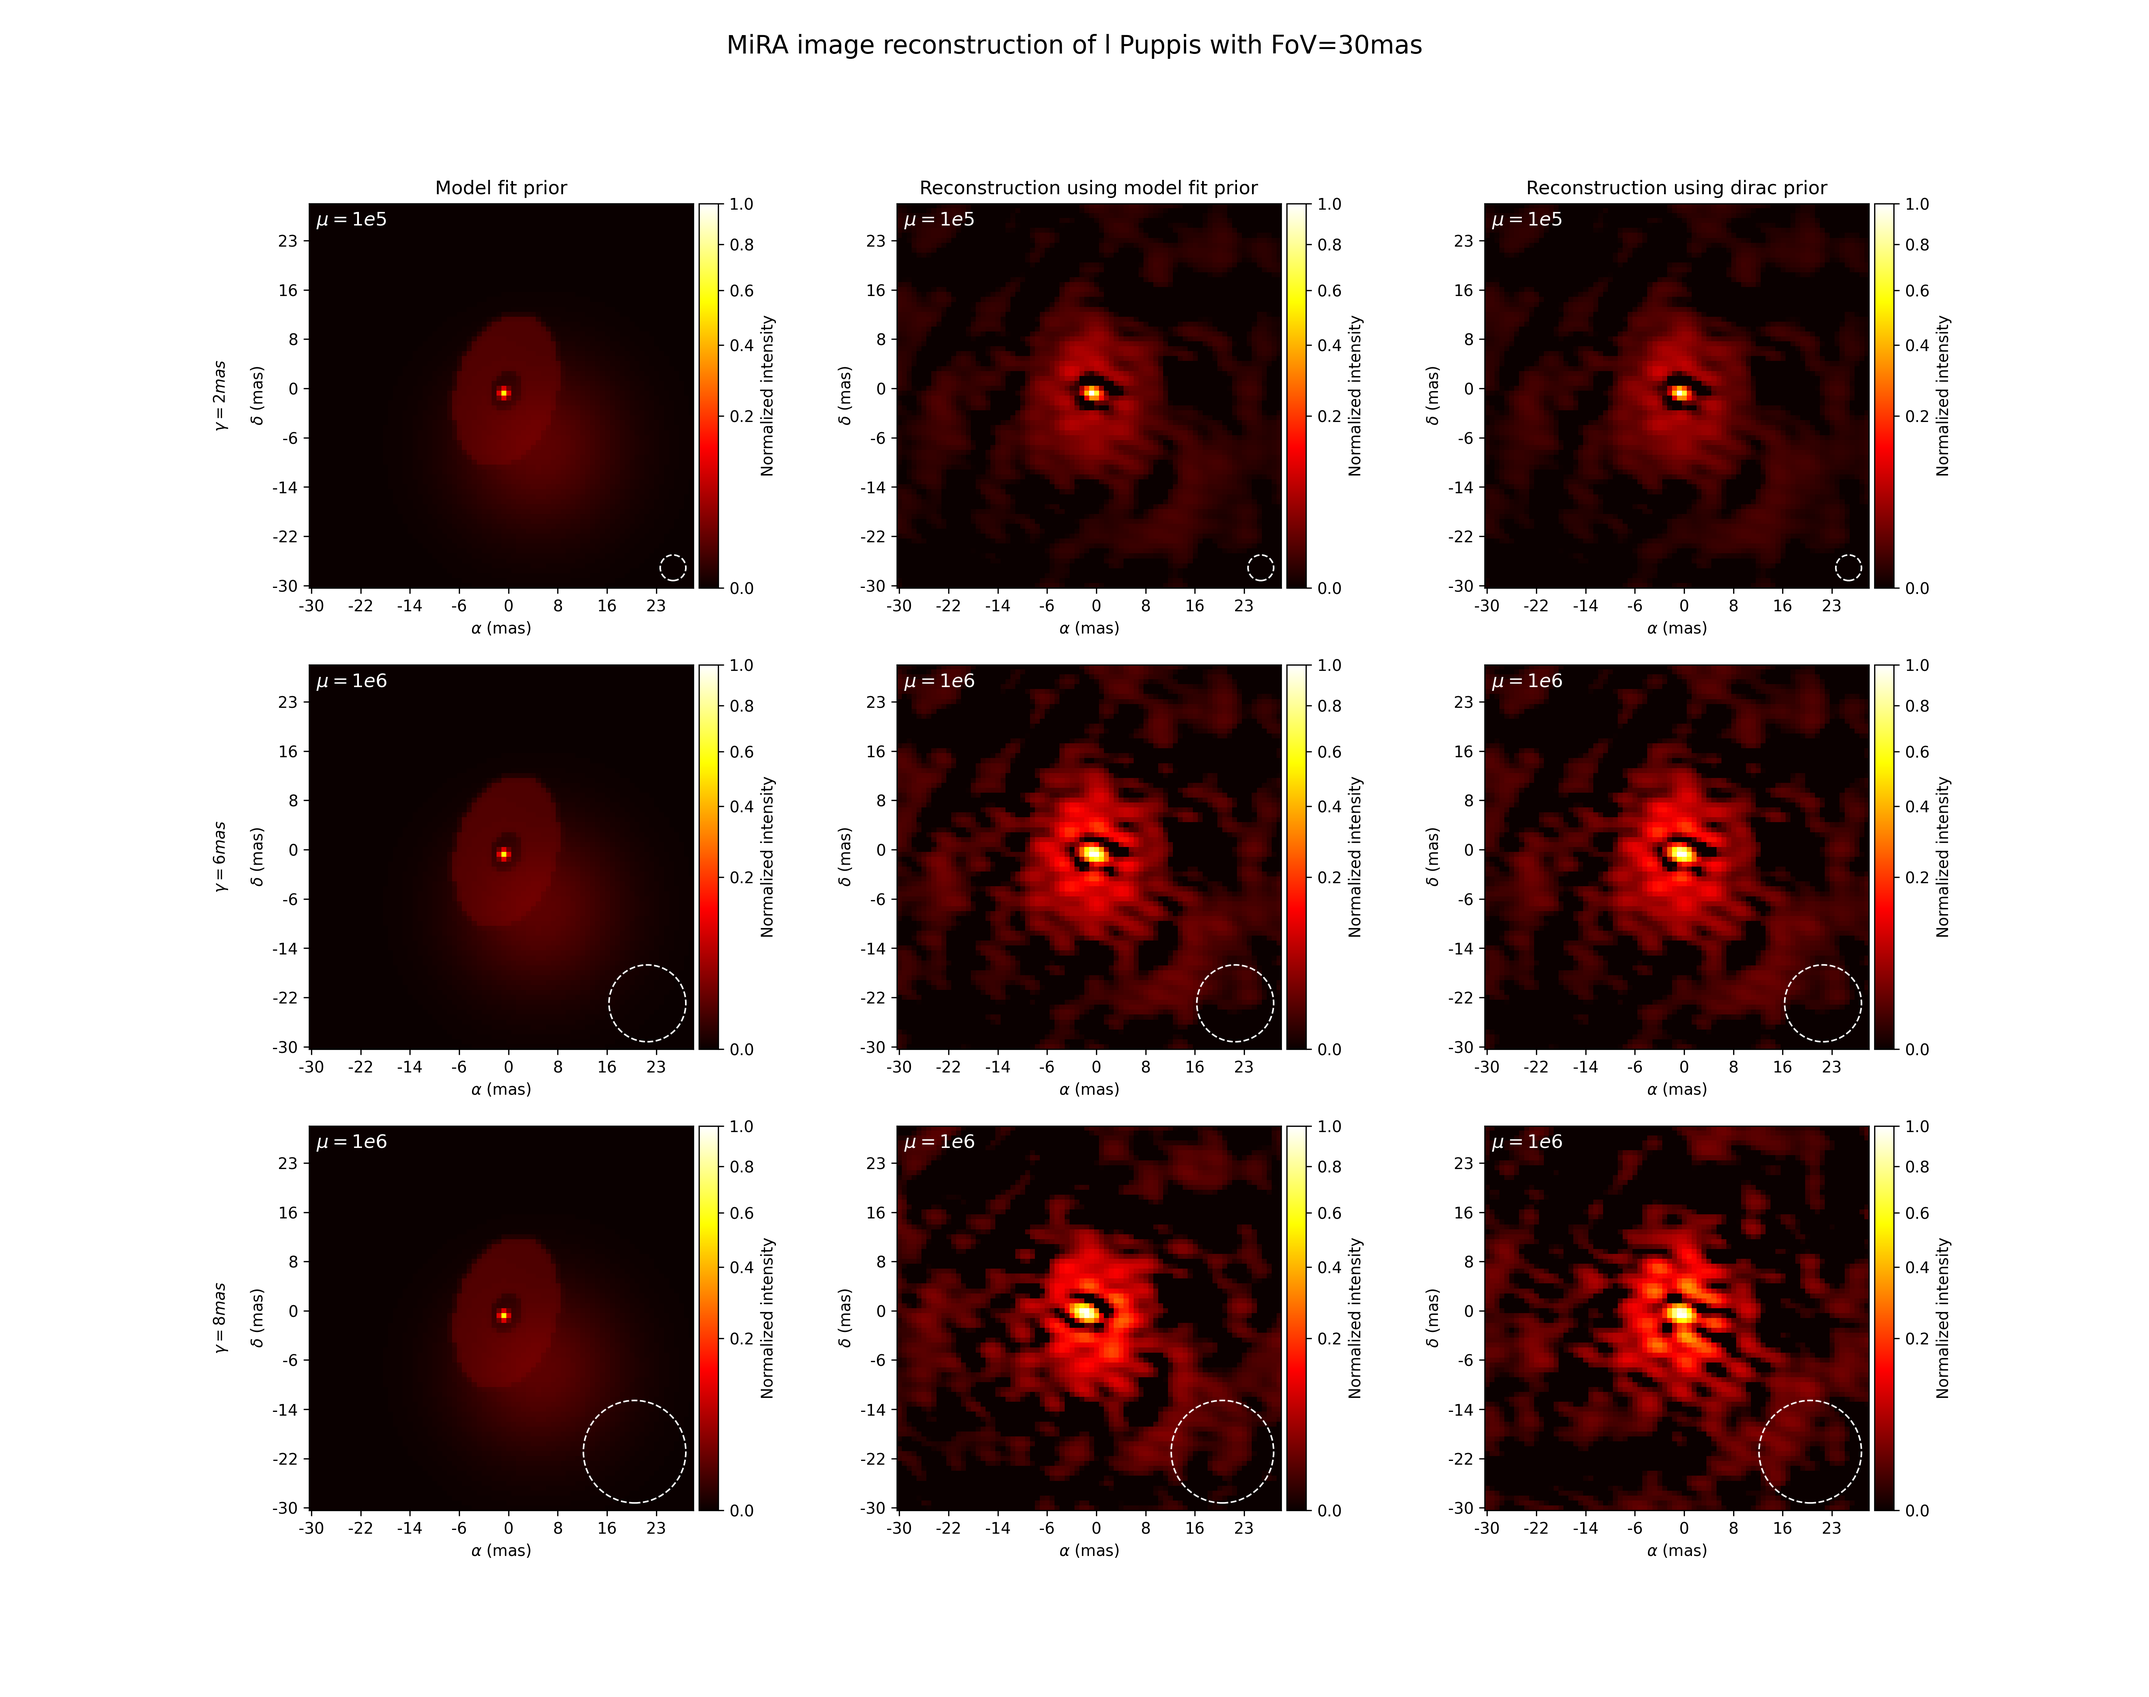
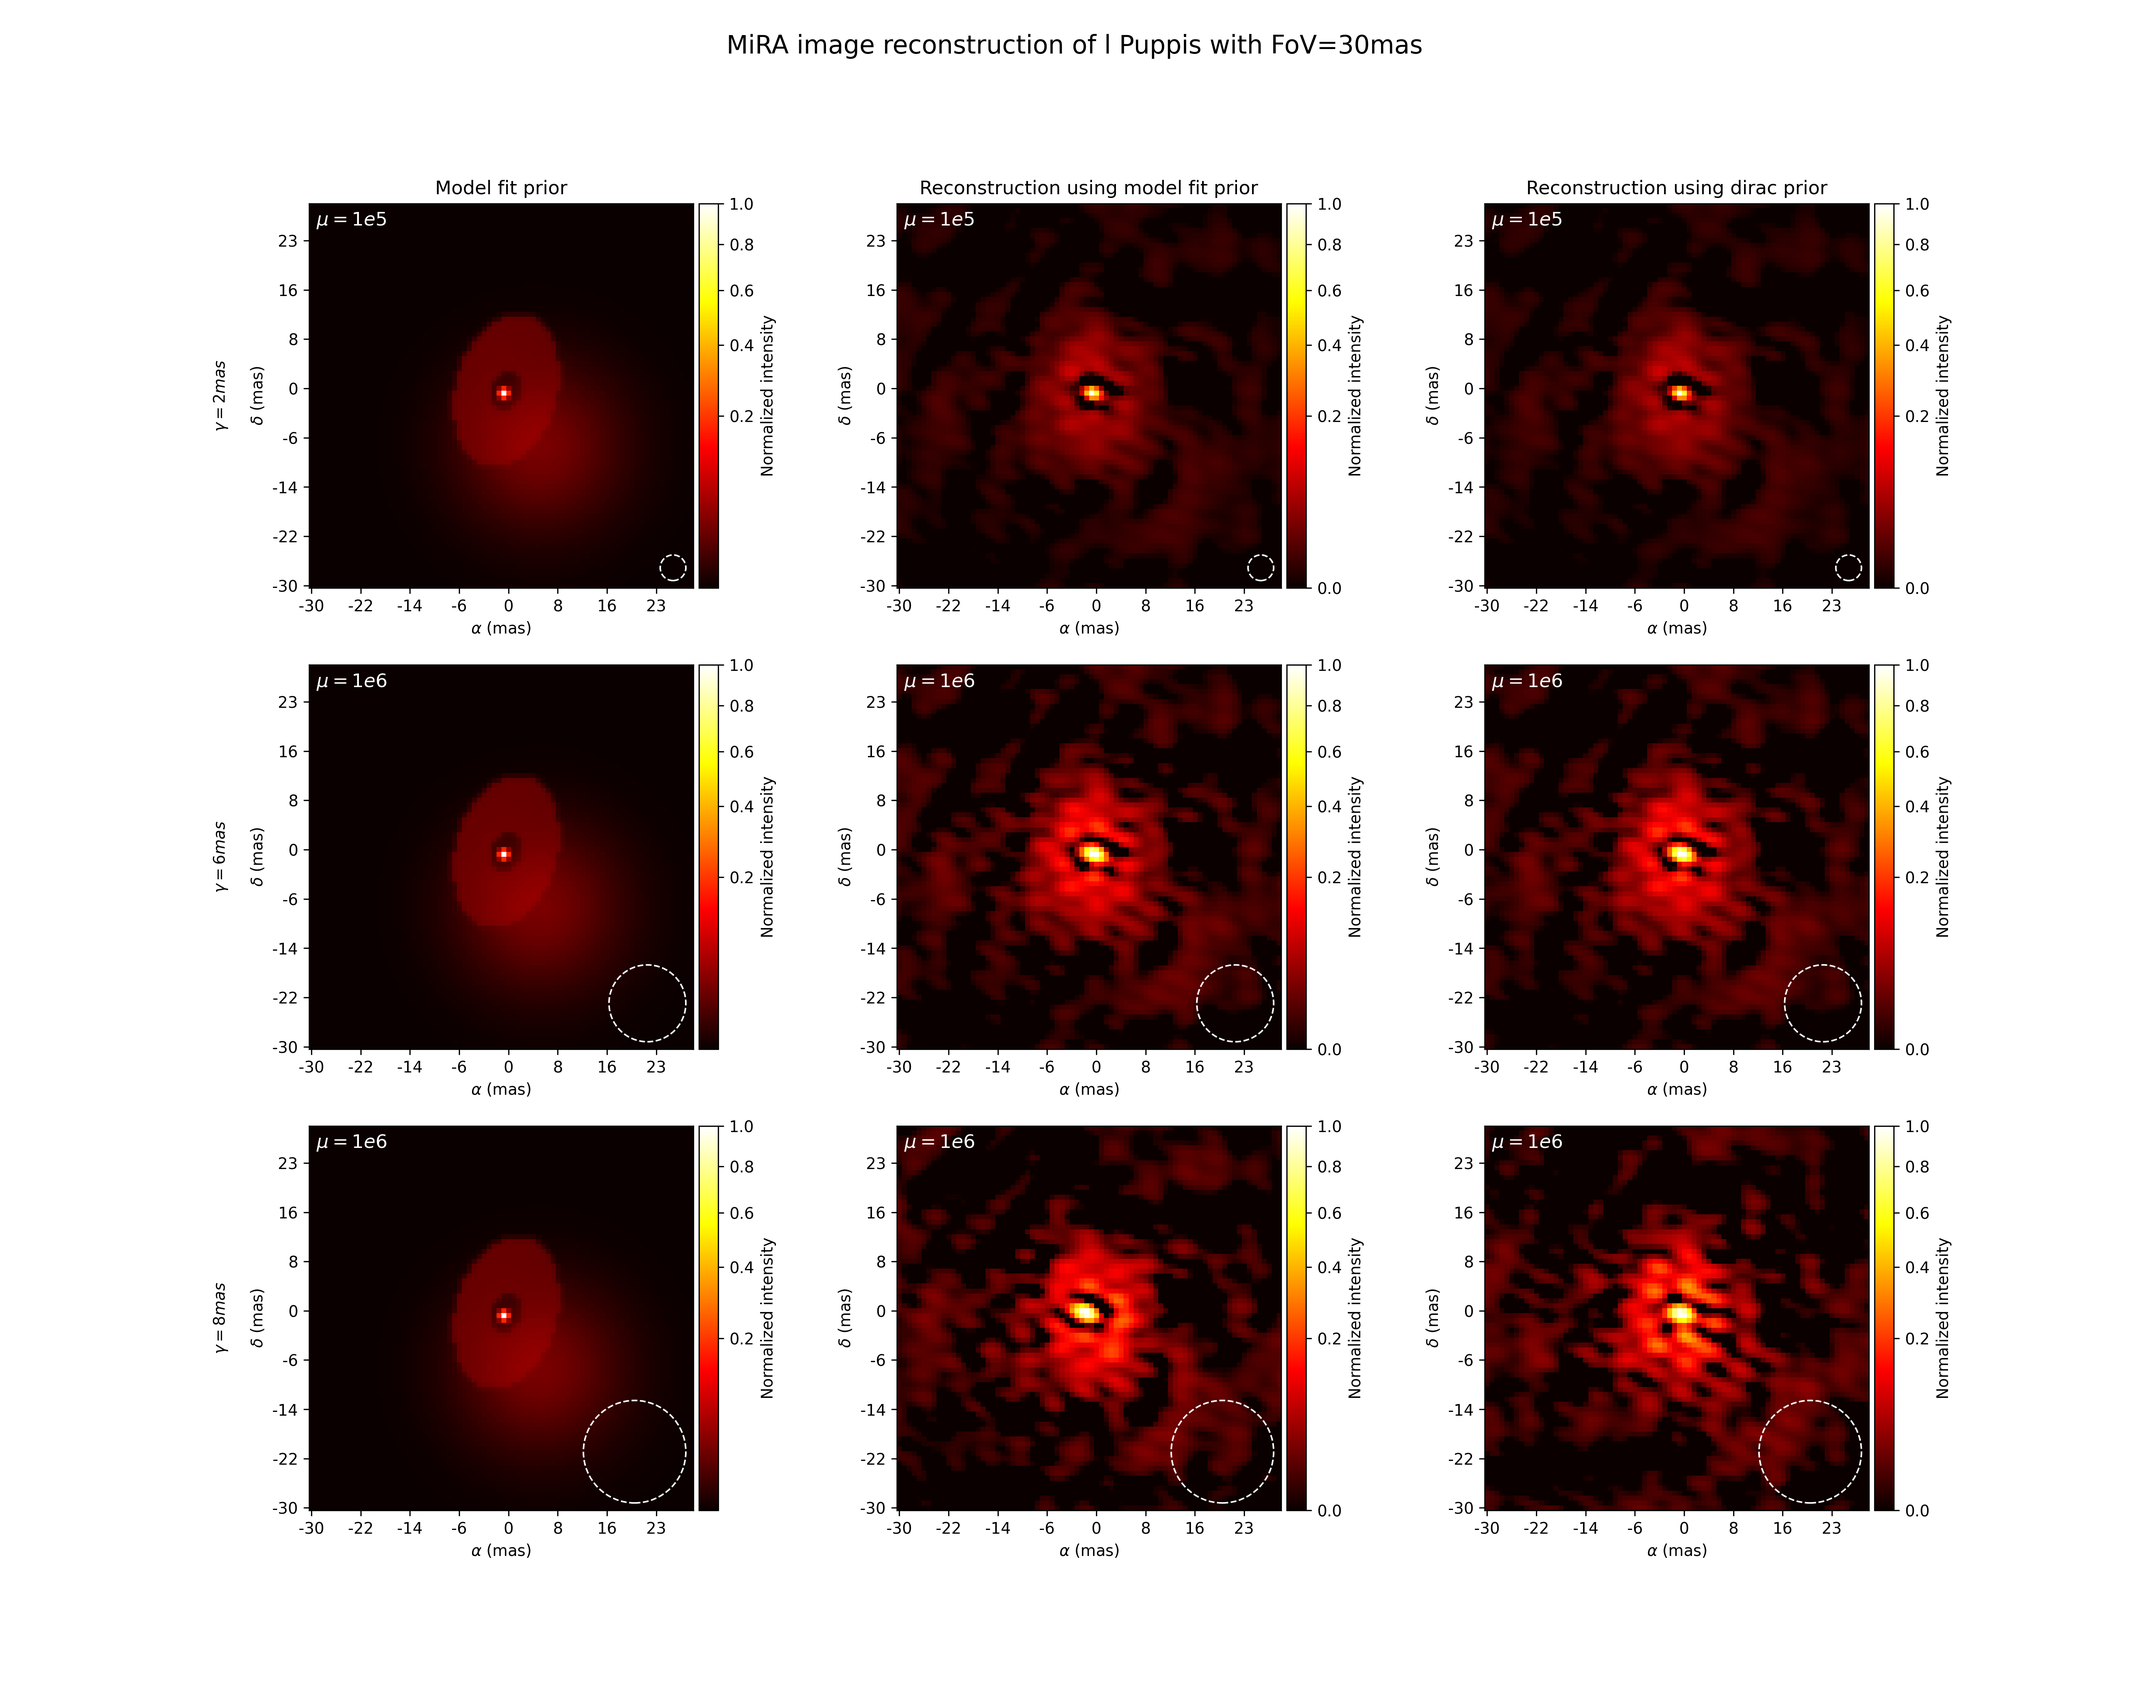
Added comments

Changed region(s): [[0.2186, 0.7467, 0.2811, 0.84], [0.2186, 0.4667, 0.2811, 0.56], [0.2186, 0.2178, 0.2811, 0.28]]

diff --git a/plot.py b/plot.py
@@ -12,79 +12,98 @@ PATH = "./to_plot" # Path to the folder containing fits to plot
 
 fig, axs = plt.subplots(3, 3, figsize=(19, 15))
 
-row = 0
+row = 0 # Will be used to iterate over the rows of the plot
 for file in os.listdir(PATH):
 
+    # Extracting parameters from the file name
     m = re.search('l_Pup_spec1_output(Dirac|Model)_.*_fov([0-9]+)mas_gamma([0-9]+)mas_mu1e([0-9]+).fits', file)
 
+    # Parse (=treat) the parameters and save them in variables
     source = m.group(1)
     fov = int(m.group(2))
     gamma = int(m.group(3))
     mu = int(m.group(4))
 
+    # Considering only the Dirac files (and then looking at the corresponding model files)
     if source != "Dirac":
         continue
 
+    # Loading the current file (dirac)
     with fits.open(os.path.join(PATH,file)) as hdul:
-        dirac = np.flip(hdul[0].data, axis=1)
-        dirac /= np.max(dirac)
-        n = dirac.shape[0]
+        dirac = np.flip(hdul[0].data, axis=1) # Only interested in the reconstruction
+        dirac /= np.max(dirac) # Normalizing the intensity
+        n = dirac.shape[0] # Size of the image
 
+    # The corresponding model file
     with fits.open(os.path.join(PATH,file.replace("Dirac","Model"))) as hdul:
-        reconstruction = hdul[0].data
-        reconstruction /= np.max(reconstruction)
-        prior = hdul[3].data
+        reconstruction = hdul[0].data # Reconstruction
+        reconstruction /= np.max(reconstruction) # Normalizing the intensity
+        prior = hdul[3].data # Prior
+        prior /= np.max(prior) # Normalizing the intensity
 
-    vmax = max(np.max(reconstruction), np.max(dirac))
+    vmax = max(np.max(reconstruction), np.max(dirac)) # Putting reconstructions images on the same scale
 
+    # Plot of the prior
     im = axs[row,0].imshow(prior, cmap='hot', norm=FuncNorm((np.sqrt,lambda x: x**2)))
-    im.set_clim(0,1)
-
-    divider = make_axes_locatable(axs[row,0])
+    divider = make_axes_locatable(axs[row,0]) # Some black magic to have a nice colorbar
     cax = divider.append_axes("right", size="5%", pad=0.05)
     cbar = plt.colorbar(im, ax=axs[row,0], cax=cax)
     cbar.set_label('Normalized intensity')
 
+    # Plot of the reconstruction using the model
     im = axs[row,1].imshow(reconstruction, cmap='hot', norm=FuncNorm((np.sqrt,lambda x: x**2), vmax=vmax))
-    divider = make_axes_locatable(axs[row,1])
+    divider = make_axes_locatable(axs[row,1]) # Some black magic to have a nice colorbar
     cax = divider.append_axes("right", size="5%", pad=0.05)
     cbar = plt.colorbar(im, ax=axs[row,1], cax=cax)
     cbar.set_label('Normalized intensity')
+
+    # Plot of the reconstruction using the dirac
     im = axs[row,2].imshow(dirac, cmap='hot', norm=FuncNorm((np.sqrt,lambda x: x**2), vmax=vmax))
-    divider = make_axes_locatable(axs[row,2])
+    divider = make_axes_locatable(axs[row,2]) # Some black magic to have a nice colorbar
     cax = divider.append_axes("right", size="5%", pad=0.05)
     cbar = plt.colorbar(im, ax=axs[row,2], cax=cax)
     cbar.set_label('Normalized intensity')
 
+    # Storing latex symbols inside variables
     alpha = r'$\alpha$'
     delta = r'$\delta$'
 
     for ax in axs[row]:
+
+        # Mu text
         ax.text(1, n-2, f"$\mu = 1e{mu}$", color='white', fontsize=12, ha='left', va='top')
+
+        # Cross rule to have gamma in pixels
         gamma_px = n*gamma/fov
+        # Plotting the circle
         ax.add_patch(Circle((n-2-gamma_px, 1+gamma_px), gamma_px, color='white', fill=False, linewidth=1, linestyle='dashed'))
         
+        # Changing ticks from pixel to mas
         labels = [item.get_text() for item in ax.get_xticklabels()]
         labels = [str(int((int(label.replace("−","-"))-n//2)/n*fov)) for label in labels]
         ax.set_xticklabels(labels)
         labels = [item.get_text() for item in ax.get_yticklabels()]
         labels = [str(int((int(label.replace("−","-"))-n//2)/n*fov)) for label in labels]
         ax.set_yticklabels(labels)
+
+        # Labels
         ax.set_xlabel(f"{alpha} (mas)")
         ax.set_ylabel(f"{delta} (mas)")
 
+    # Title on the left of the first column
     axs[row,0].set_ylabel(f"$\gamma = {gamma} mas$\n\n{delta} (mas)")
 
+    # Incrementing the row (to go to the next one in the next iteration)
     row += 1
 
-# Title on left of the first row
-plt.setp(axs[0,0], title="Model fit prior")
-
+# Titles for the columns
 axs[0,0].set_title("Model fit prior")
 axs[0,1].set_title("Reconstruction using model fit prior")
 axs[0,2].set_title("Reconstruction using dirac prior")
 
+# Title for the whole plot
 fig.suptitle("MiRA image reconstruction of l Puppis with FoV=30mas", fontsize=16, va='top')
 
+# Saving the plot
 fig.savefig("comparison.png", dpi=300)
 # plt.show()
